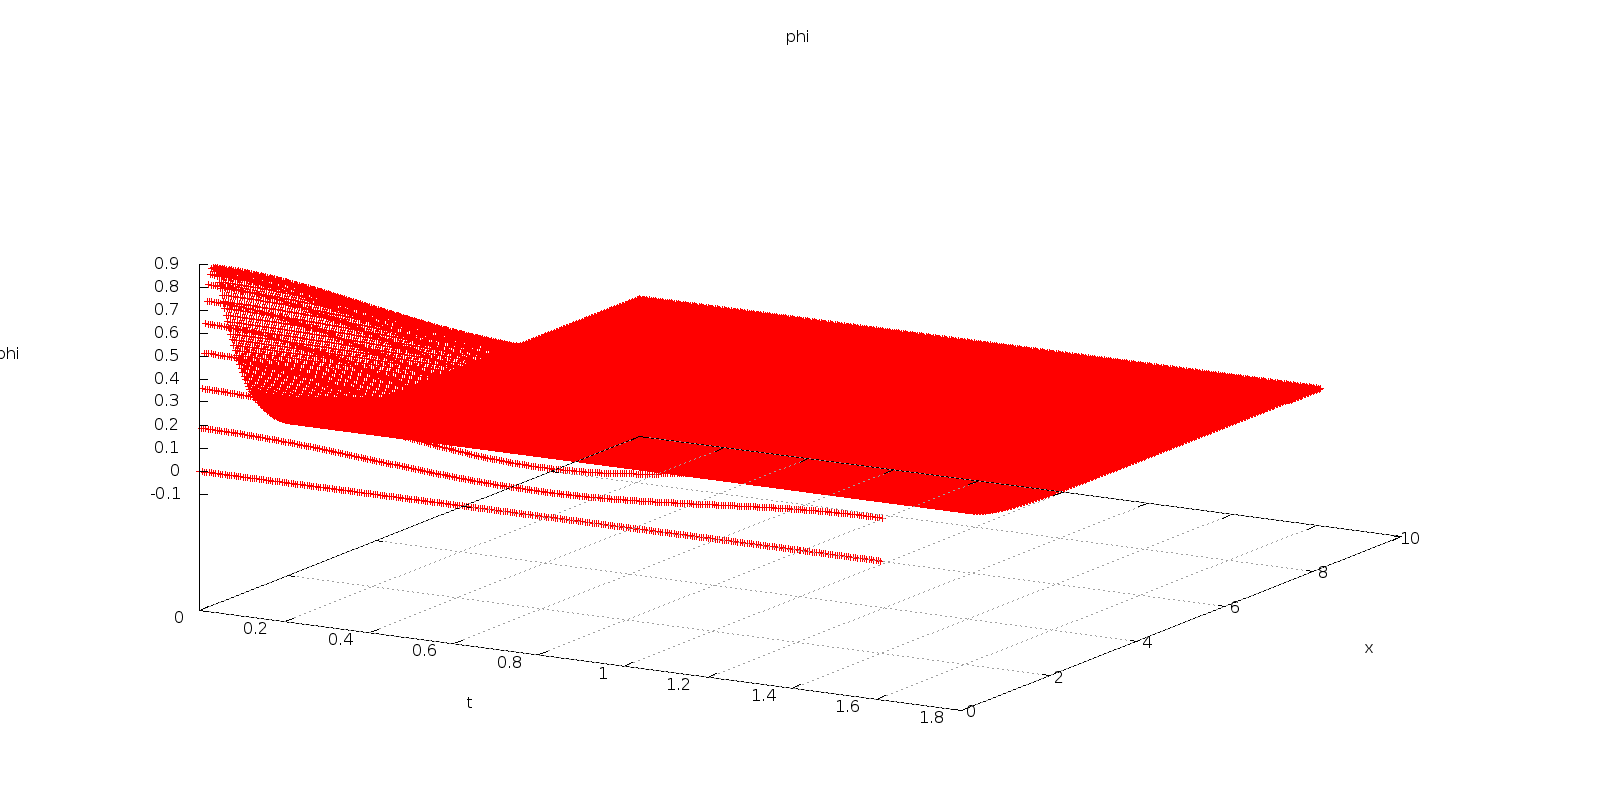
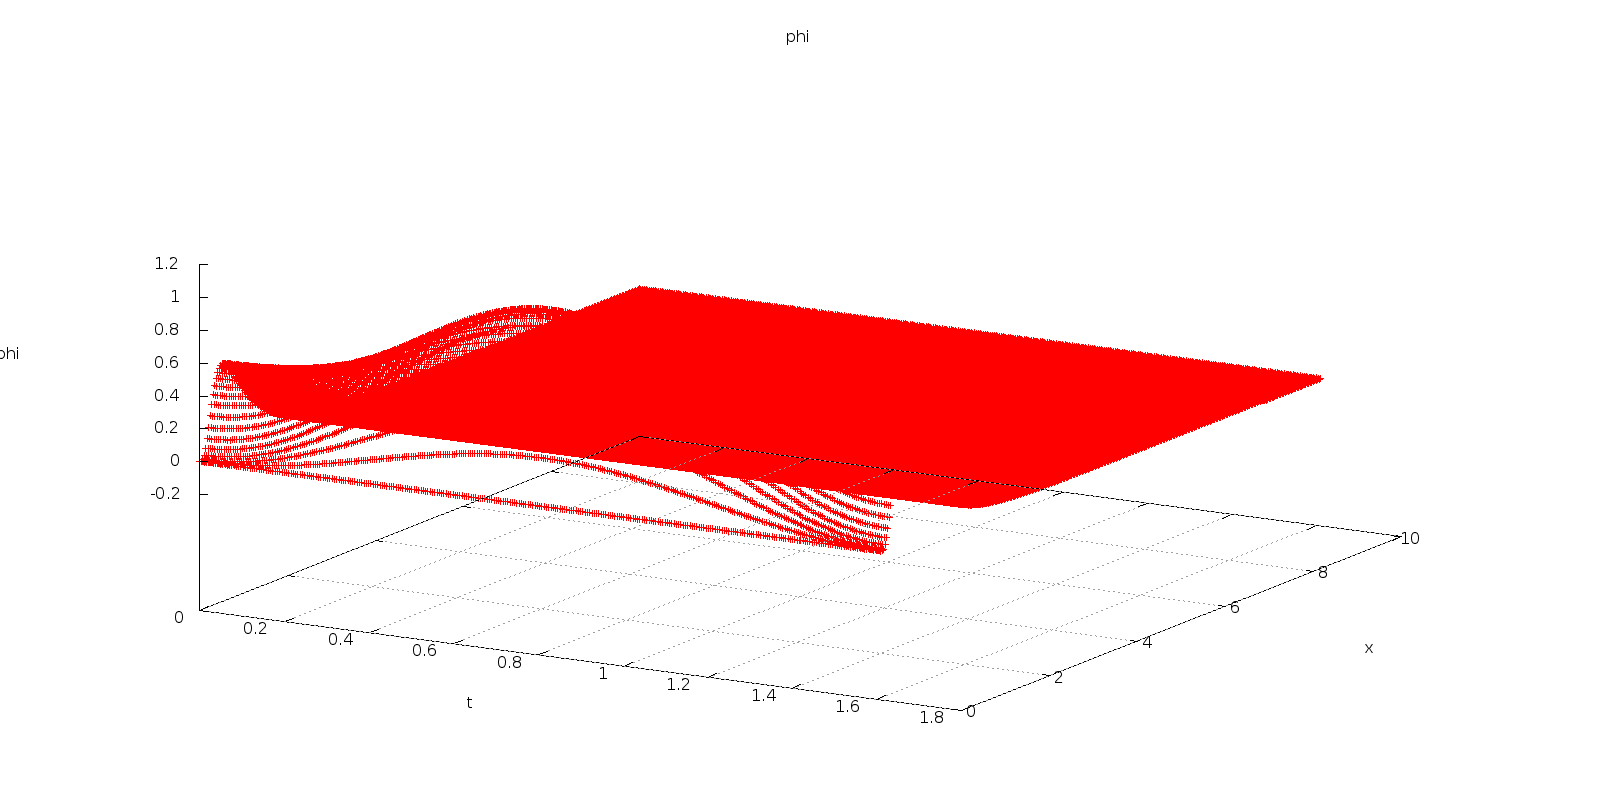
added .sh file

Changed region(s): [[0.0938, 0.3125, 0.6875, 0.7188], [0.5625, 0.4062, 0.8438, 0.5625], [0.6875, 0.5625, 0.7188, 0.5938]]

diff --git a/pi.cc b/pi.cc
@@ -24,15 +24,14 @@
 
 using namespace std;
 
-int main()
+int main(int argc, char** argv)
 {
 ///////////////////////////////////////////////////////////////////////////////////////////////////////////////////////////////////
 //getting variables and user inputs from inputs
 
 //defining the time to label output
-bool printTimeNumber = true;
 string timeNumber;
-if (printTimeNumber) timeNumber = currentDateTime();
+(argc==2) ? timeNumber = argv[1] : timeNumber = currentDateTime();
 
 ifstream fin;
 fin.open("inputs");
@@ -642,10 +641,6 @@ for (unsigned int loop=0; loop<aq.totalLoops; loop++)
             	Chi0(pos) = p(2*neighPos)-p(2*neigh(pos,1,-1,Nb,N)); //final time slice
             	//Chi0(pos-1) = p(2*neigh(pos-1,1,1,Nb,N))-p(2*neigh(pos-1,1,-1,Nb,N)); //penultimate time slice
             	}
-            else
-            	{
-            	Chi0(pos) = 0.0;
-            	}
             }
         if (runs_count==1) //printing Chi0
         	{
@@ -844,13 +839,13 @@ for (unsigned int loop=0; loop<aq.totalLoops; loop++)
 		if(solver.info()!=Eigen::Success)
 			{
 			cout << "DDS pattern analysis failed, solver.info() = "<< solver.info() << endl;
-			return 0;
+			return 1;
 			}		
 		solver.factorize(DDS);
 		if(solver.info()!=Eigen::Success) 
 			{
 			cout << "Factorization failed, solver.info() = "<< solver.info() << endl;
-			return 0;
+			return 1;
 			}
 		delta = solver.solve(minusDS);// use the factorization to solve for the given right hand side
 		if(solver.info()!=Eigen::Success)
@@ -858,7 +853,7 @@ for (unsigned int loop=0; loop<aq.totalLoops; loop++)
 			cout << "Solving failed, solver.info() = "<< solver.info() << endl;
 			cout << "log(abs(det(DDS))) = " << solver.logAbsDeterminant() << endl;
 			cout << "sign(det(DDS)) = " << solver.signDeterminant() << endl;
-			return 0;
+			return 1;
 			}
 		
 		//independent check on whether calculation worked
@@ -871,7 +866,7 @@ for (unsigned int loop=0; loop<aq.totalLoops; loop++)
 			{
 			cout << "Calculation failed" << endl;
 			cout << "calc_test = " << calc_test.back() << endl;
-			return 0;
+			return 1;
 			}
 
 		//assigning values to phi

diff --git a/sphaleron4.cc b/sphaleron4.cc
@@ -69,7 +69,15 @@ defining main vectors
 vec phi(N*Nt); phi = Eigen::VectorXd::Zero(N*Nt);
 vec sphaleron = interpolate1d(sphaleronFull,sphaleronFull.size(),N);
 vec negEig = interpolate1d(negEigFull,sphaleronFull.size(),N);
+
+/* ---------------------------------------------------------------------------------------------
+normalising
+---------------------------------------------------------------------------------------------*/
 if (negEig[0]<0) negEig *= -1.0;
+double normSphaleron, normNegEig;
+normSphaleron = sphaleron.norm();
+normNegEig = negEig.norm();
+negEig *= normSphaleron/normNegEig;
 
 /* ---------------------------------------------------------------------------------------------
 constructing intial guess for phi
@@ -88,7 +96,7 @@ for (unsigned int k=0; k<Nt; k++)
 printing initial guess
 ---------------------------------------------------------------------------------------------*/
 string filename = "data/instanton00.dat";
-unsigned int N_print = 300, Nt_print = 300; //these two should be equal for input to pi.cc
+unsigned int N_print = 300, Nt_print = 300;
 vec tVec(Nt_print*N_print), rVec(Nt_print*N_print), phiToPrint;
 double dtPrint = (t1-t0)/(Nt_print-1.0);
 double dxPrint = (r1-r0)/(N_print-1.0);
